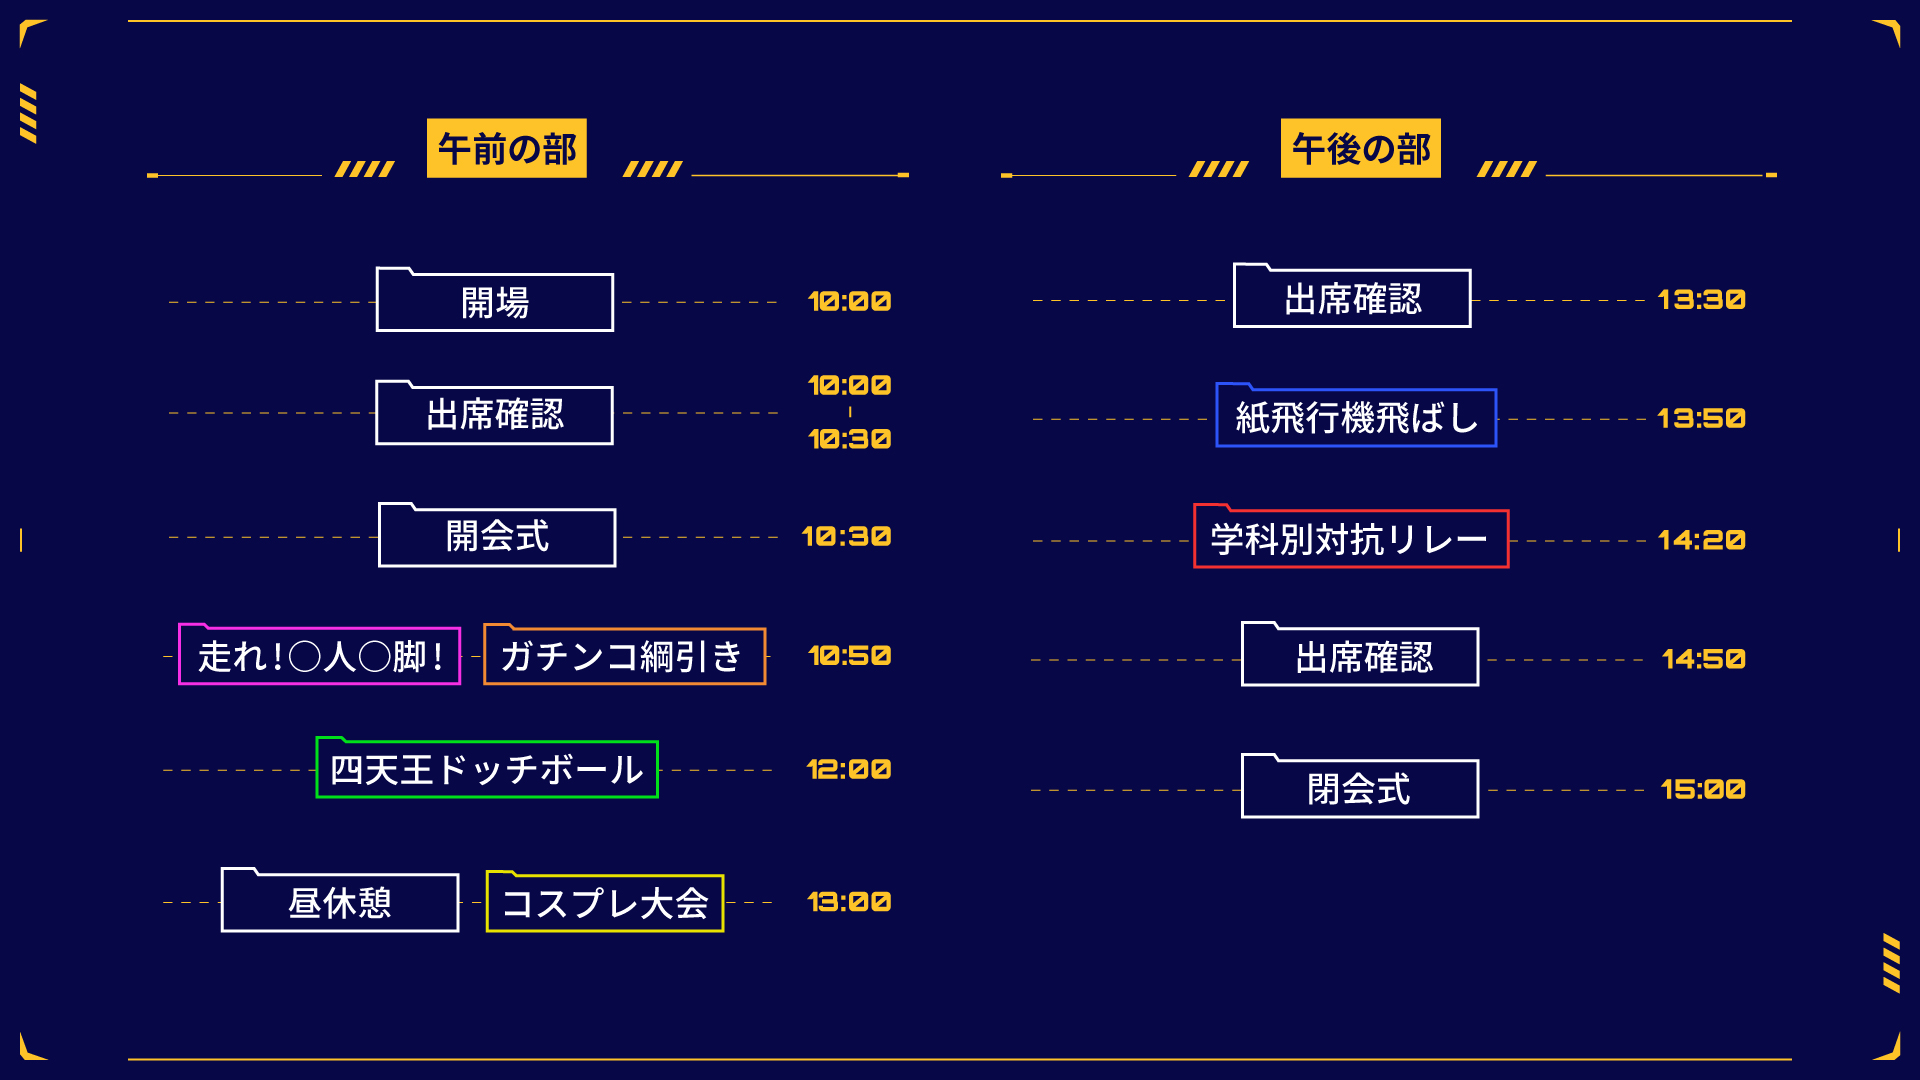
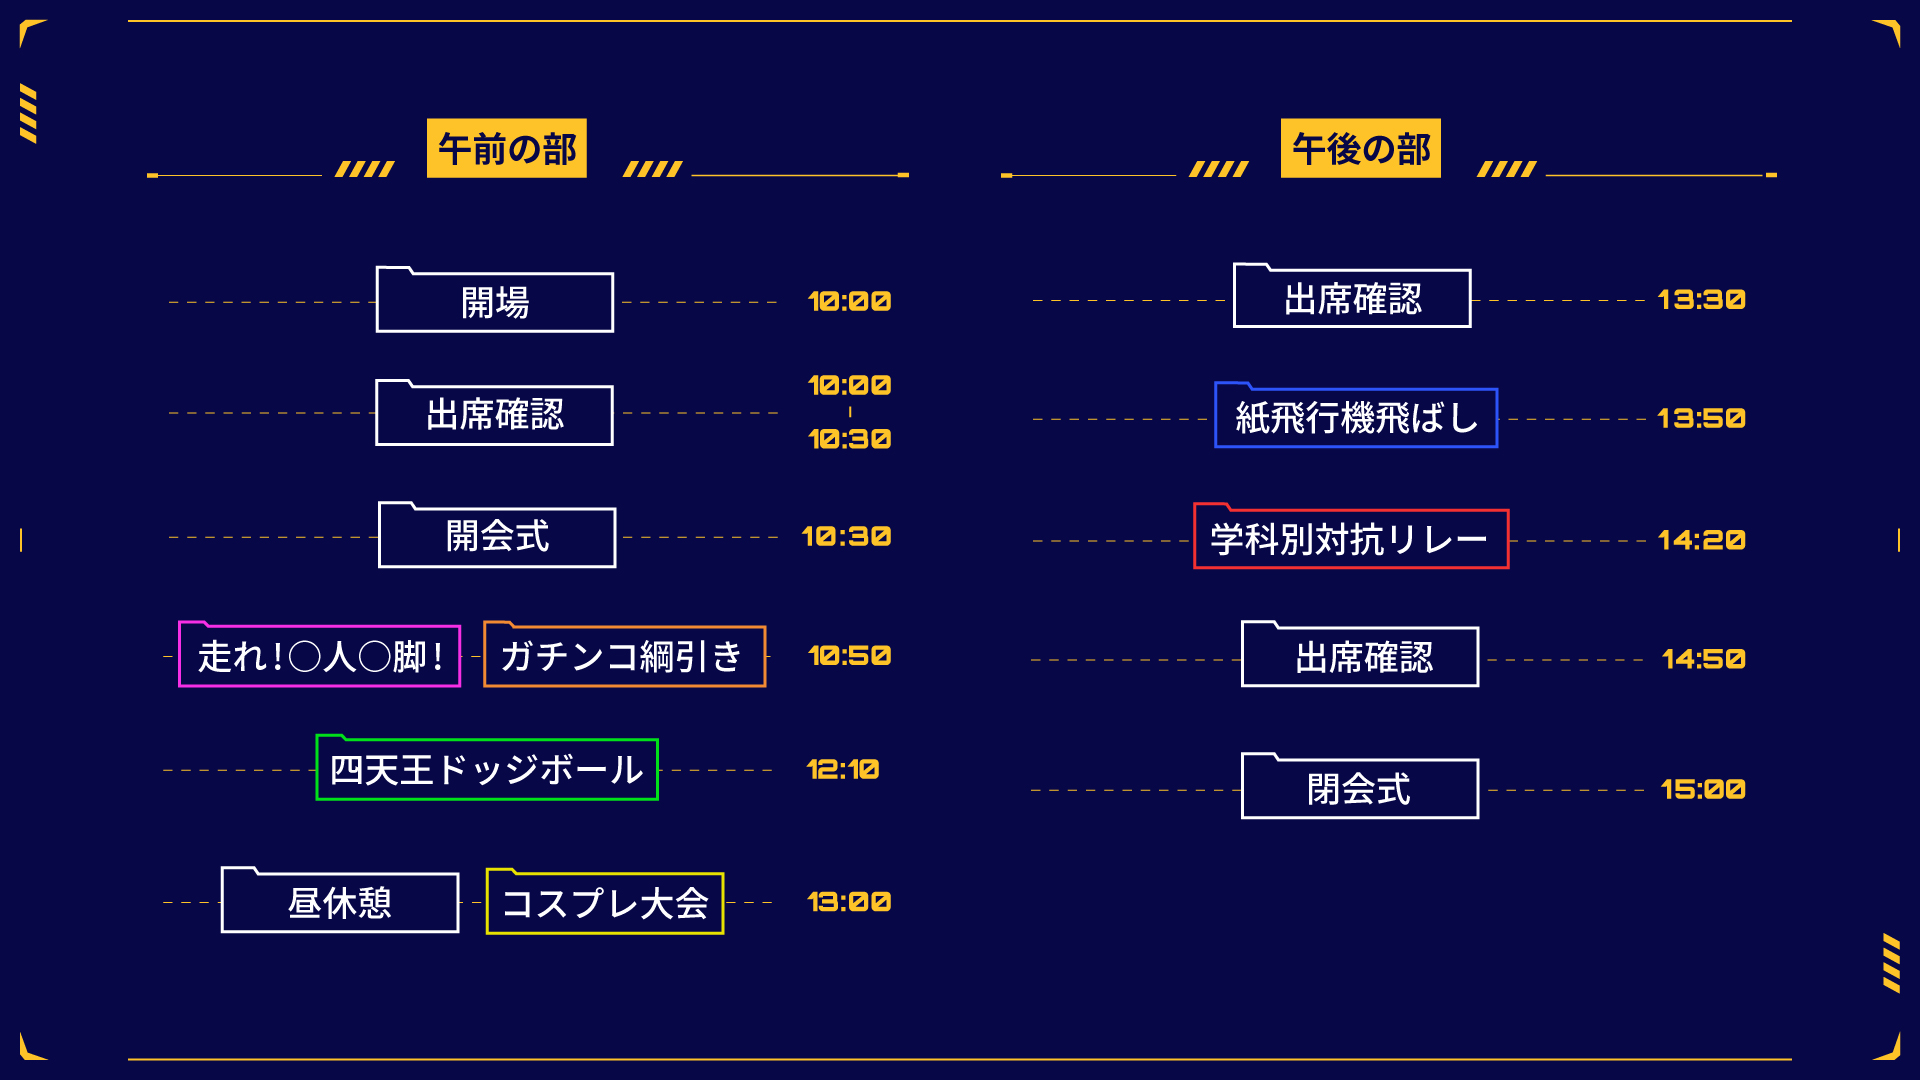
当日時間変更

diff --git a/レク/kyougi.html b/レク/kyougi.html
@@ -121,7 +121,7 @@
                   <h2 class="title">四天王ドッジボール</h2>
                 </div>
                 <div class="schedule-place">
-                  <p class="schedule">12:00~</p>
+                  <p class="schedule">12:10~</p>
                   <p class="place">競技場所</p>
                 </div>
               </div>

diff --git a/レク/dojji.html b/レク/dojji.html
@@ -81,7 +81,7 @@
           四天王ドッジボール
         </h2>
         <h4>
-          開催時間：12:00～<br>
+          開催時間：12:10～<br>
         </h4>
       </div>
 
